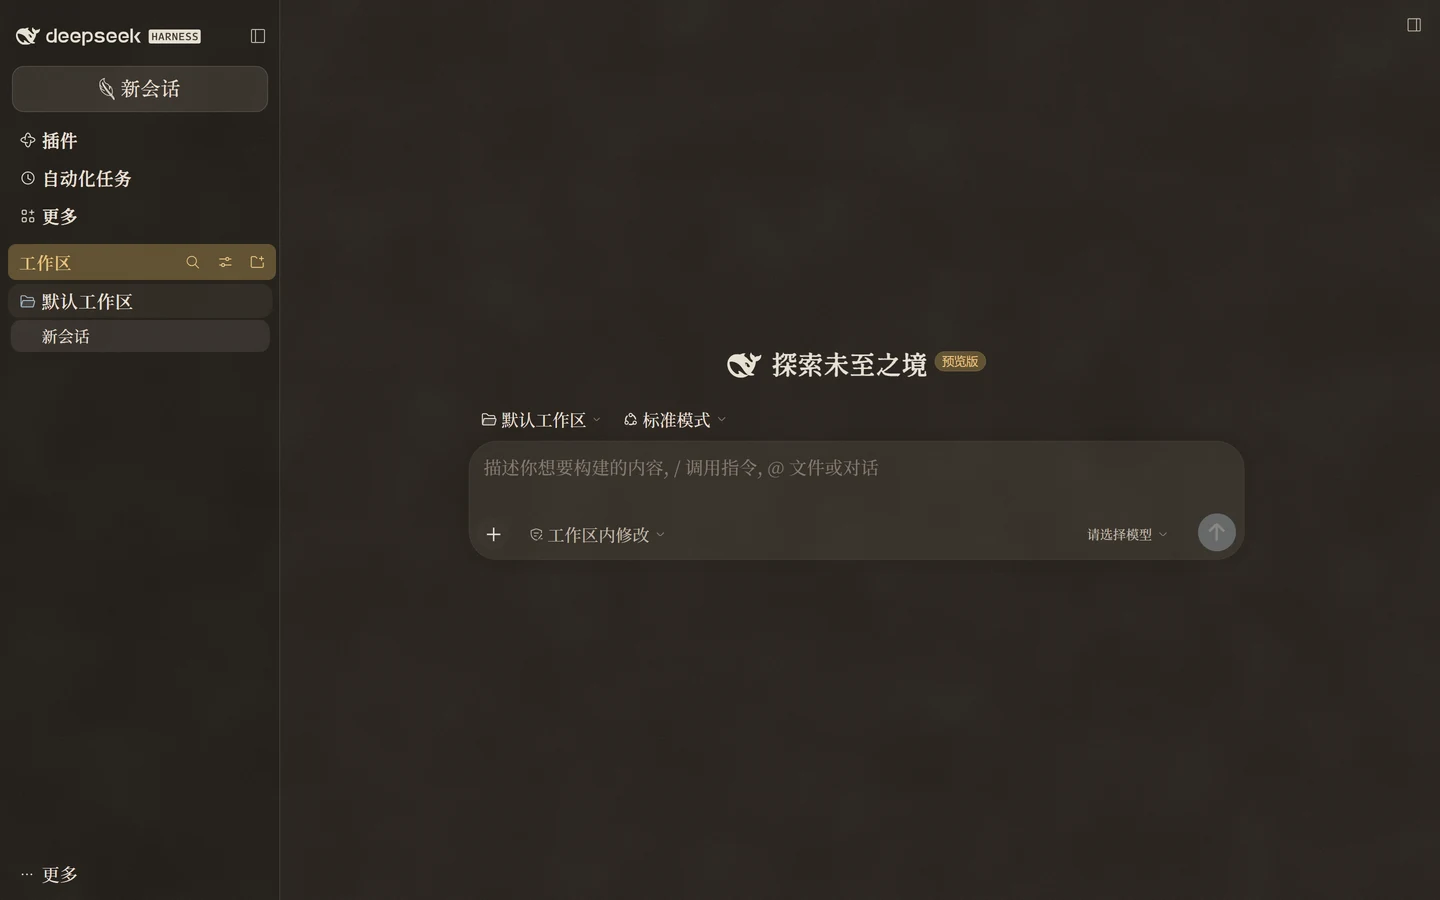
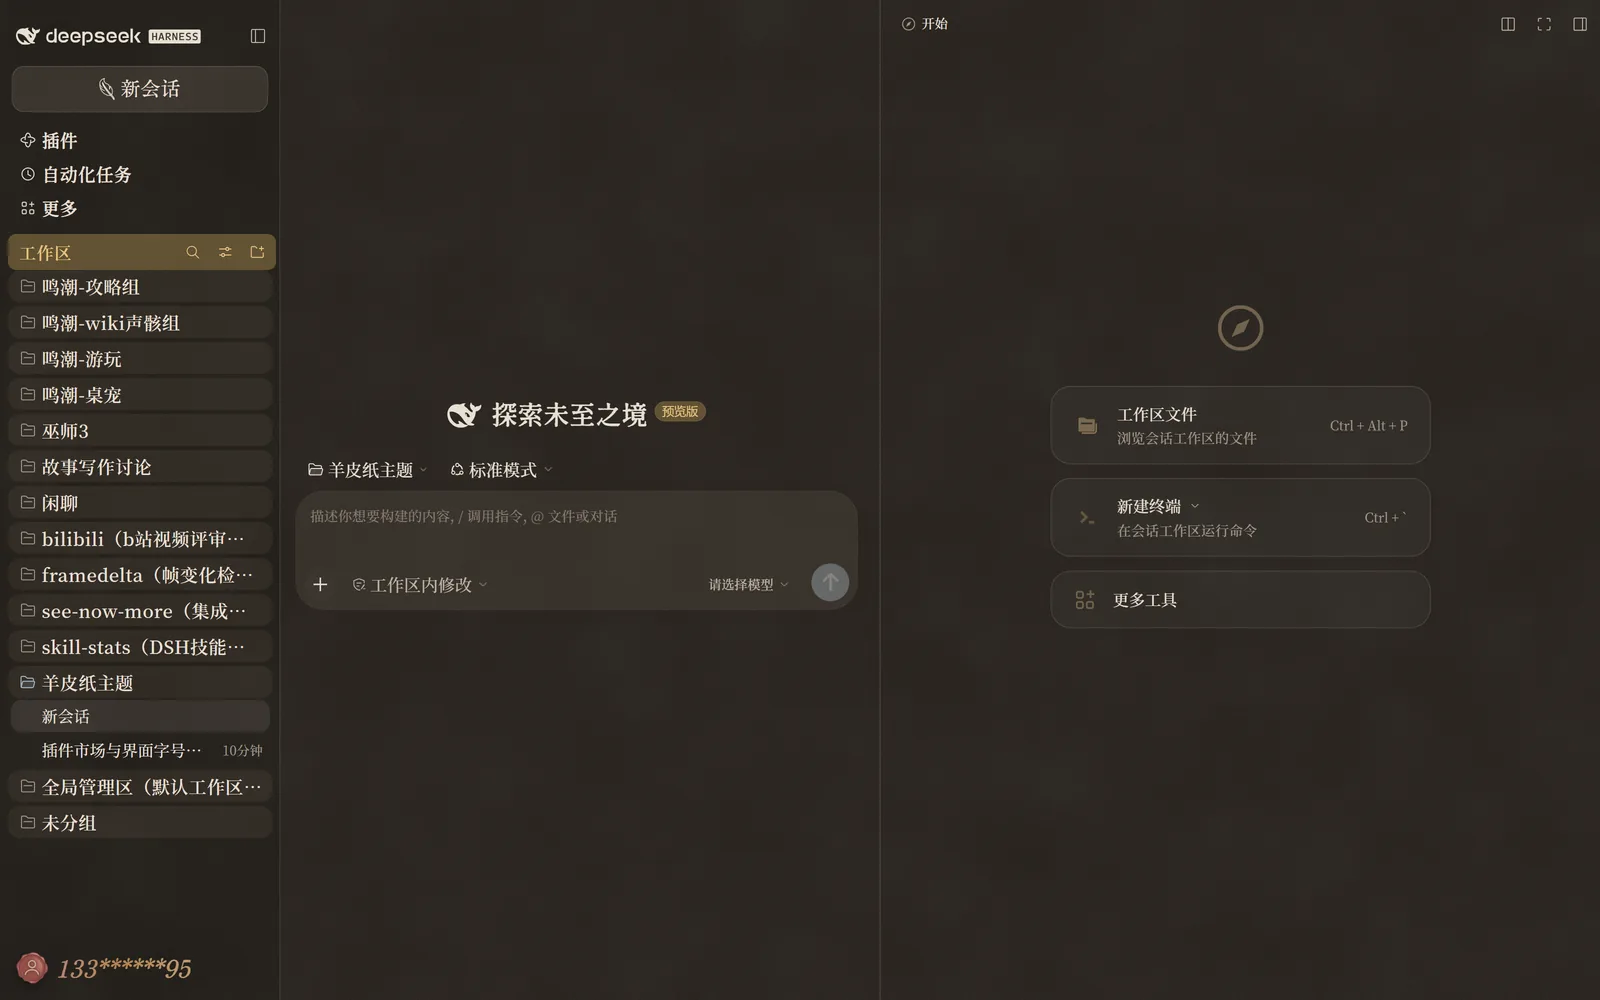
docs: 用干净实例的截图重做 README 主图，补轨迹页图与新的界面分区说明

diff --git a/README.md b/README.md
@@ -13,7 +13,13 @@
   <img src="docs/images/dark.webp" width="49%" alt="墨夜（深色）">
 </p>
 
-左浅右深，同一台机器、同一个只装了本主题的干净实例（默认工作区、空会话），1440×900。
+左浅右深，同一台机器、同一个只装了本主题的干净实例（默认工作区、起始页），1600×1000。
+
+会话轨迹页，浅色（v0.1.25 起整页提了一档字号，图例与轮次标签也换过）：
+
+<p align="center">
+  <img src="docs/images/trajectory.webp" width="100%" alt="轨迹页（浅色）">
+</p>
 
 设置页（通用设置）在两种模式下的样子：
 
@@ -52,6 +58,18 @@
 
 **设置页**
 整个面板放大到 1.15 倍，按钮、下拉、卡片有统一的表面；账号页的打码手机号、更多账号信息、余额行标签放大到 17px；「查询用量」做成「已激活外观卡」那种暖褐面，和「充值」区分开主次。
+
+**右侧栏起始页**
+右侧那排入口（工作区文件 / 代码审查和变更 / 新建终端 / 浏览器 / 更多工具）标题 16px、摘要 14px、卡片 78 高；四枚来自不同包的彩色图标（黄文件夹、蓝终端、蓝地球、浅蓝格子）统一压成墨褐色，与「代码审查和变更」的线条图标同一色系。快捷键统一 13px。
+
+**会话轨迹页**
+工具栏、事件表、详情面板整页比出厂提一档：工具栏 14/24（出厂 12/20），事件表正文 14，turn 标签 10、类型标签 12、详情标题 15。时间轴的「输入 / 模型 / 工具」图例从 10px 最淡的墨提到 12px 二级墨；轮次标签用上游自带的紧凑写法「#18」（14px、纸色底），比原来挤在 36px 栏位里的「第 18 轮」清楚得多；工具栏那几个「全部收起 / 展开」图标也从字符换成了与时钟同规格的 SVG，线宽与尺寸一致。
+
+**会话底栏**
+底部那排读数点开后的三张卡片（上下文已用 / 会话统计 / Token 用量）正文 14/20、标题 15/22，两列行距也放宽了。上下文卡片里的构成条三段由墨褐 → 暖棕 → 金，不再是从调色板跳出来的蓝紫色。
+
+**Platform 覆盖层**
+打开「用量 / 充值」这类平台页时，顶部那条「返回 DeepSeek Harness」用侧栏入口那套显示字面（寒蝉活宋体 17/24），不是系统 UI 字体。
 
 ## 两套配色（选摘）
 
